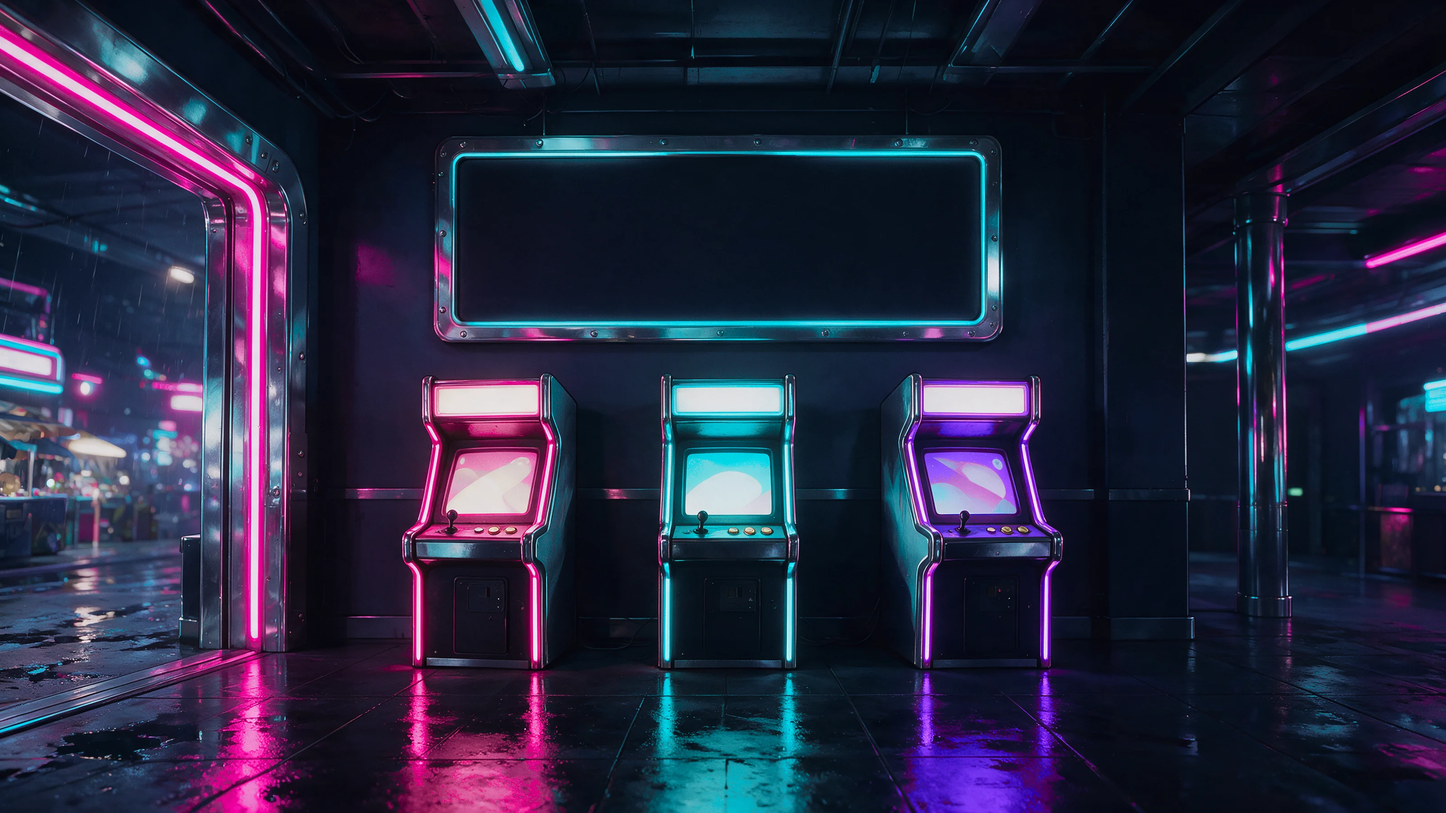
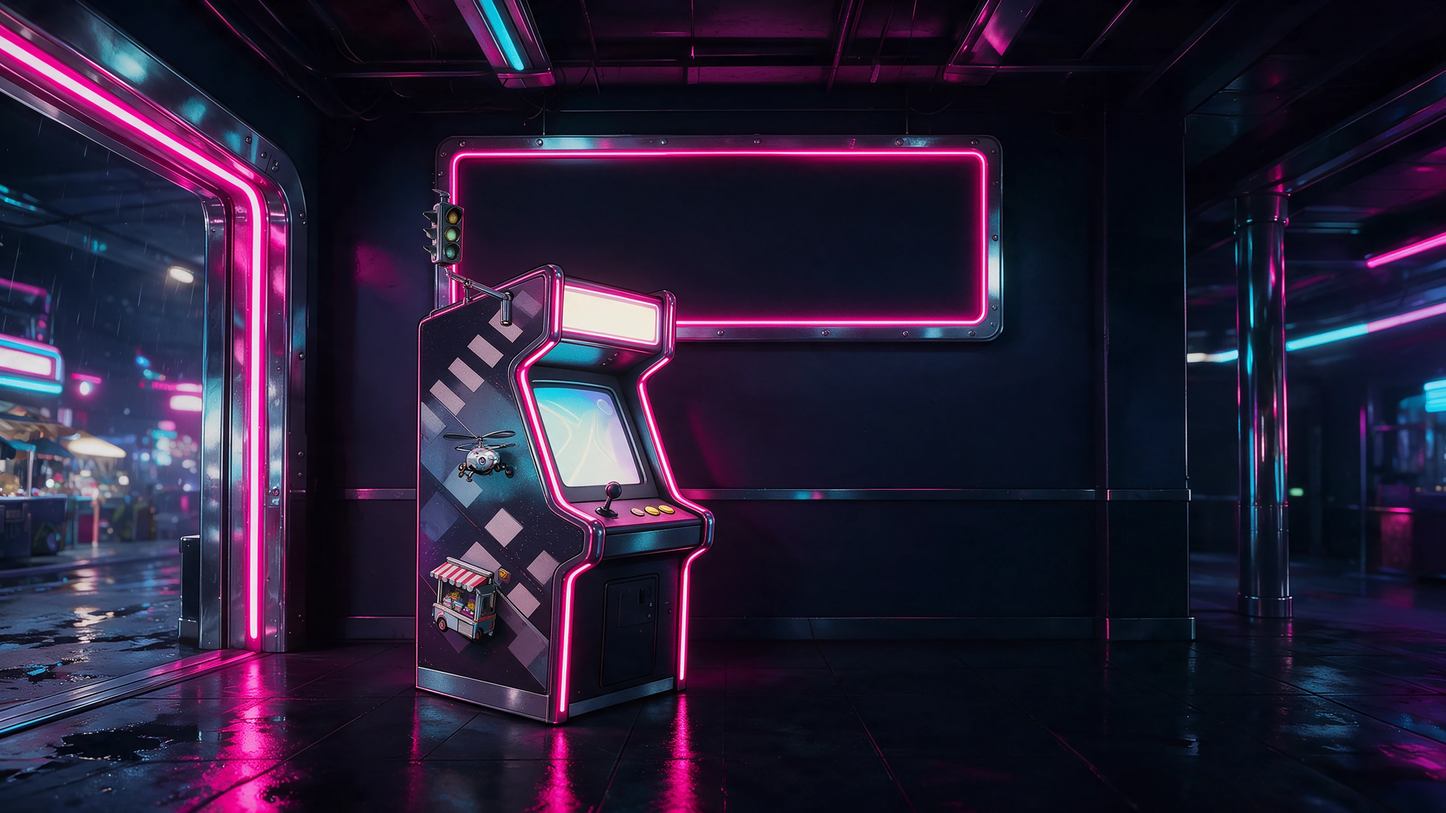
Publish the arcade's hall, title signs and game paintings (OP-059), approved by Logan
Logan approved the art in chat (2026-10-24) from the compare sheets of the
hall and of each game, on a phone and a computer. Published through the art
tool with a provenance line for every file:

- the hall: arcade (its first screen, replacing the one-screen hall),
  arcade-mid and arcade-end, WebP at 1x and 2x;
- the title signs over the cabinets: Hoot & Hop, Moon Flap, Nest
  Knockdown, keyed PNG at 1x and 2x. Two of the signs' 2x copies were over
  the 200 KB budget as truecolour, and a palette would have left the board
  see-through, so their colour is kept at 6 bits a channel with the alpha
  exact (recorded in their tools lines);
- each game's field (WebP, 480 x 640 and twice that) and its pieces
  (keyed PNG at the size the game draws them): the drone and the noodle
  cart, the branch and the ground strip, the slingshot, the crate and the
  stand.

The art check took WebP only for rooms' painted screens; the table now marks
the games' fields "format": "webp" (opaque paintings, which as PNG would be
several times the size), and the check takes WebP for a key so marked.

Claude-Session: https://claude.ai/code/session_01GwxsLoM2md4sGXGmm1SY7i

diff --git a/tools/art/postprocess.py b/tools/art/postprocess.py
@@ -60,7 +60,7 @@ except ImportError as _missing:  # pragma: no cover - depends on the machine
 
 from artlib import (BUDGET_2X_RELAXED, BUDGET_2X_ROOM, BUDGET_BYTES, DEFAULT_WORK_DIR, HELPER_KEYS, OWL_LAYERS, OWL_SPECIES,  # noqa: E402
                     PALETTES_DIR, PIECE_ANCHOR, PROVENANCE_PATH, PUBLIC_ART_DIR, PUBLIC_ROOMS, REALM_OF_KEY, ROOM_H, ROOM_W,
-                    TINTED_LAYERS, TOOLS_ART_DIR, ArtError, is_overlay, is_room_background, load_assets, load_key_colours, logical_size, now_iso, owl_layer_base,
+                    TINTED_LAYERS, TOOLS_ART_DIR, ArtError, is_overlay, is_room_background, load_assets, ships_as_webp, load_key_colours, logical_size, now_iso, owl_layer_base,
                     owl_master_of, rel_to_repo, sha256_bytes, species_layers, validate_key)
 from artlib import forbidden, pngmeta, prov, webpmeta  # noqa: E402
 from artlib.budget import BudgetError, encode_under_budget  # noqa: E402
@@ -956,8 +956,8 @@ def cmd_check(ctx: Ctx, a: argparse.Namespace) -> int:
         formats = [ext for ext in RASTER_EXTS if f"{key}.{ext}" in rasters or f"{key}@2x.{ext}" in rasters]
         if len(formats) > 1:
             problems.append(f"{key}: both PNG and WebP files are published; the loader uses the WebP, so the PNG is stale (republish {key})")
-        if "webp" in formats and not is_room_background(key, ctx.assets):
-            problems.append(f"{key}: published as WebP, but only room backgrounds ship as WebP")
+        if "webp" in formats and not ships_as_webp(key, ctx.assets):
+            problems.append(f"{key}: published as WebP, but only room backgrounds and the paintings marked webp ship as WebP")
         for ext in RASTER_EXTS:
             one_name, two_name = f"{key}.{ext}", f"{key}@2x.{ext}"
             if two_name in rasters and one_name not in rasters:

diff --git a/tools/art/test_art_tools.py b/tools/art/test_art_tools.py
@@ -1021,7 +1021,21 @@ class TestCli(unittest.TestCase):
             with mock.patch("sys.stderr", new=io.StringIO()), mock.patch("sys.stdout", new=io.StringIO()) as out:
                 self.assertEqual(postprocess.main(["check", "hub", "guardian"] + common), 1)
             self.assertIn("hub.webp: disallowed WebP chunks: EXIF", out.getvalue())
-            self.assertIn("guardian: published as WebP, but only room backgrounds ship as WebP", out.getvalue())
+            self.assertIn("guardian: published as WebP, but only room backgrounds and the paintings marked webp ship as WebP", out.getvalue())
+
+    def test_check_takes_webp_for_a_painting_the_table_marks_webp(self):
+        # The arcade's game fields are opaque paintings, not rooms: the table marks them "format": "webp".
+        self.assertEqual(load_assets()["arcade-hop-bg"].get("format"), "webp")
+        with tempfile.TemporaryDirectory() as tmp:
+            work, public = Path(tmp) / "work", Path(tmp) / "public"
+            (work / "final").mkdir(parents=True)
+            public.mkdir()
+            provp = Path(tmp) / "p.jsonl"
+            common = ["--work", str(work), "--public", str(public), "--provenance", str(provp), "--now", "2026-10-18T09:00:00Z"]
+            (public / "arcade-hop-bg.webp").write_bytes(webpmeta.encode(Image.new("RGB", (480, 640), (9, 9, 9)), 80))
+            with mock.patch("sys.stderr", new=io.StringIO()), mock.patch("sys.stdout", new=io.StringIO()) as out:
+                postprocess.main(["check", "arcade-hop-bg"] + common)
+            self.assertNotIn("published as WebP", out.getvalue())
 
     def test_demo_runs_the_whole_chain(self):
         with tempfile.TemporaryDirectory() as tmp:

diff --git a/tools/art/artlib/__init__.py b/tools/art/artlib/__init__.py
@@ -110,6 +110,12 @@ def is_room_background(key: str, assets: dict) -> bool:
     return assets.get(key, {}).get("kind") == "room" and not key.endswith("-fg")
 
 
+def ships_as_webp(key: str, assets: dict) -> bool:
+    """Art published as WebP: a room's painted screen, or another opaque painting the table marks
+    ``"format": "webp"`` (the arcade's game fields); everything cut out ships as PNG."""
+    return is_room_background(key, assets) or assets.get(key, {}).get("format") == "webp"
+
+
 #: Which realm's palette grades which key.
 REALM_OF_KEY = {
     "hub": "hub", "hub-fg": "hub",
